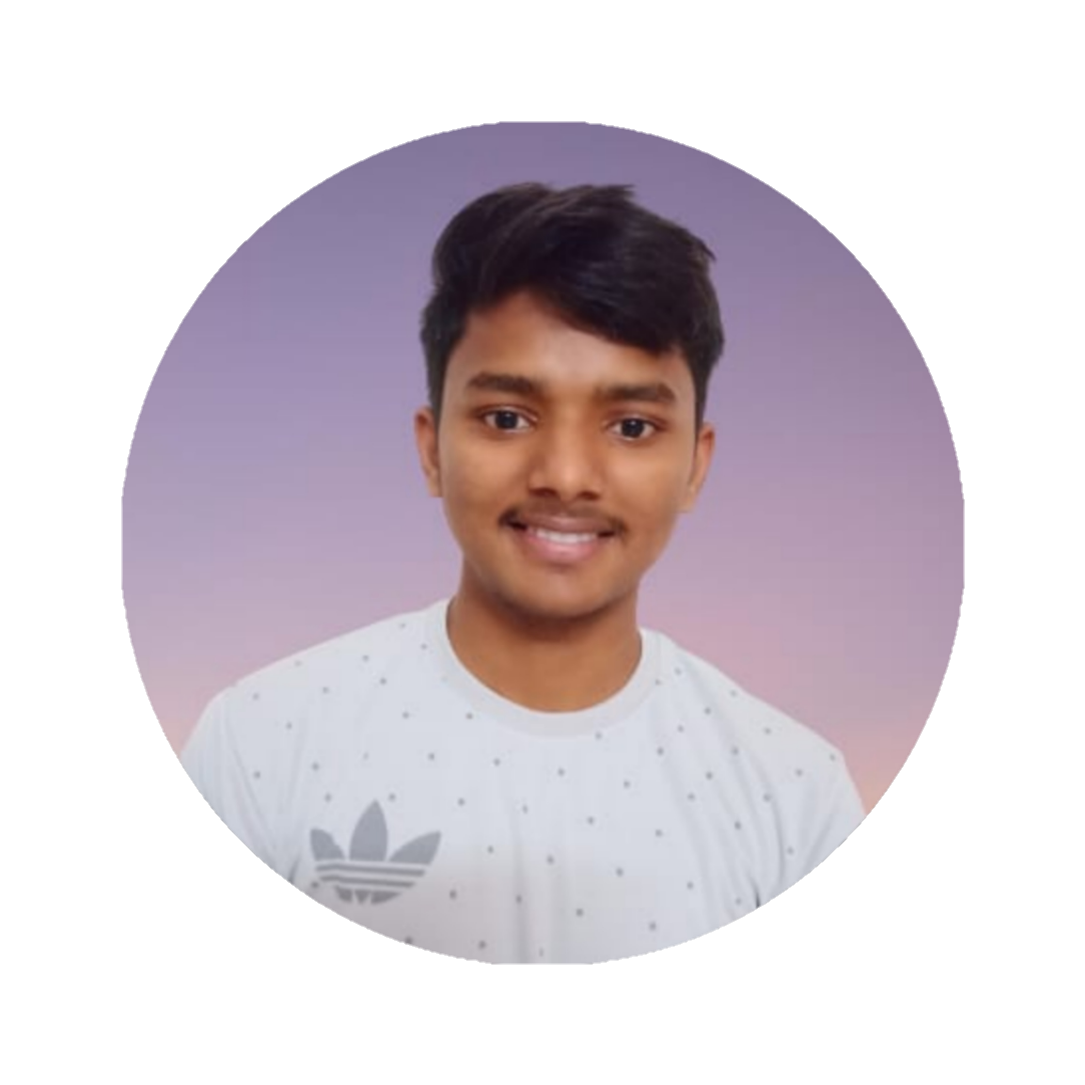
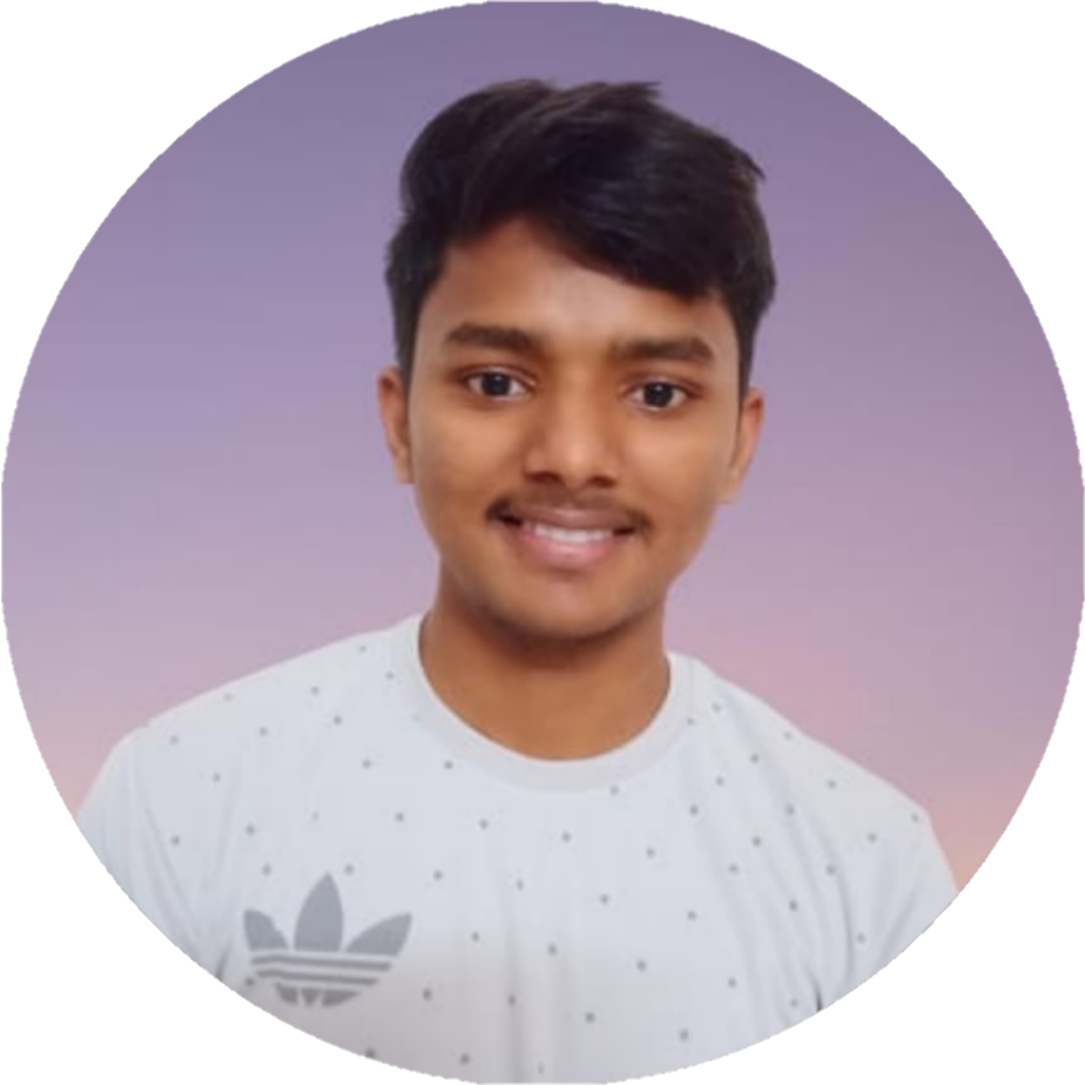
optimised images and gallery

diff --git a/index.html b/index.html
@@ -1,105 +1,109 @@
 <!DOCTYPE html>
 <html lang="en">
-  <head>
-    <meta charset="UTF-8" />
-    <meta http-equiv="X-UA-Compatible" content="IE=edge" />
-    <meta name="viewport" content="width=device-width, initial-scale=1.0" />
-    <title>GDSC GHRCEM</title>  <link rel = "icon" href = "./assets/gdsc.png" type = "image/x-icon">
-  </head>
-  <body>
-    <!DOCTYPE html>
-    <html lang="en">
-      <head>
-        <meta charset="utf-8" />
-        <title>Image Gallery</title>
-        <meta name="description" content="Responsive Image Gallery" />
-        <meta name="author" content="Tim Wells" />
-        <link rel="stylesheet" href="./src/style.css" />
-      </head>
-      <body>
-        <nav class="header">
-          <img src="./assets/logo.png" alt="" srcset="" class="logo" />
-          <p class="attend">We Attended Git + Github 1.0</p>
-        </nav>
-        <div id="gallery">
-          <img src="./assets/rza.jpg" id="img" class="item1" />
-          <img src="./assets/kirtan.jpg" id="img" class="item1" />
-          <img src="./assets/rohit_gande.jpg" id="img" class="item1" />
-          <img src="./assets/Kirti.jpg" id="img" class="item1" />
-          <img src="./assets/astha.jpg" id="img" />
-          <img src="./assets/harsh.png" id="img" />
-          <img src="./assets/sahilthete.jpg" id="img" />
-          <img src="./assets/anurag.jpg" id="img" />
-          <img src="./assets/abuzaid.jpg" id="img" />
-          <img src="./assets/dhanashree.jpg" id="img" />
-          <!-- <img src="./assets/profileE.png" id="img" /> -->
-          <img src="./assets/purvesh.jpeg" id="img" />
-          <img src="./assets/YashSinkar.jpeg" id="img" />
-          <img src="./assets/vynk.jpg" id="img" />
-          <!--<img src="./assets/profileE.png" id="img" /> -->
-          <!--<img src="./assets/profileE.png" id="img" />-->
-          <img src="./assets/Nikk.jpg" id="img" />
-          <!--<img src="./assets/profileE.png" id="img" />-->
-          <!--<img src="./assets/profileE.png" id="img" />-->
-          <!--<img src="./assets/profileE.png" id="img" />-->
-          <img src="./assets/yuvi.png" id="img" />
-          <!--<img src="./assets/profileE.png" id="img" />-->
-          <img src="./assets/Kunal1.jpg" id="img" />
-          <img src="./assets/mihir.jpeg" id="img" />
-          <!--<img src="./assets/profileE.png" id="img" />-->
-          <!--<img src="./assets/profileE.png" id="img" />-->
-          <img src="./assets/paresh.jpeg" id="img" />
-          <img src="./assets/Karan.jpeg" id="img" />
-          <!--<img src="./assets/profileE.png" id="img" />-->
-          <!--<img src="./assets/profileE.png" id="img" />-->
-          <img src="./assets/a35atharvagangras.jpg" id="img" />
-          <img src="./assets/Yuvraj.png" id="img" />
-          <img src="./assets/Nutesh.jpeg" id="img" />
-          <img src="./assets/nitesh.jpeg" id="img" />
-          <!--<img src="./assets/profileE.png" id="img" />-->
-          <!--<img src="./assets/profileE.png" id="img" />-->
-          <!--<img src="./assets/profileE.png" id="img" />-->
-          <img src="./assets/tejas.jpg" id="img" />
-          <!--<img src="./assets/profileE.png" id="img" />-->
-          <!--<img src="./assets/profileE.png" id="img" />-->
-          <img src="./assets/aakash.jpg" id="img" />
-          <img src="./assets/Abhijeet.jpg" id="img" />
-          <!--<img src="./assets/profileE.png" id="img" />-->
-          <img src="./assets/mrunal.jpg" id="img" />
-          <!--<img src="./assets/profileE.png" id="img" />-->
-          <!--<img src="./assets/profileE.png" id="img" />-->
-          <img src="./assets/Prathmesh k.jpeg" id="img" />
-          <img src="./assets/zoro.jpeg" id="img" />
-          <!--<img src="./assets/profileE.png" id="img" />-->
-          <img src="./assets/Prathamesh.jpg" id="img" />
-          <img src="./assets/prathamesh.jpg" id="img" />
-          <!--<img src="./assets/profileE.png" id="img" />-->
-          <!--<img src="./assets/profileE.png" id="img" />-->
-          <!--<img src="./assets/profileE.png" id="img"/>-->
-          <!--<img src="./assets/profileE.png" id="img" />-->
-          <img src="./assets/meet_patil.jpeg" id="img" /> 
-          <!--<img src="./assets/profileE.png" id="img" />-->
-          <!--<img src="./assets/profileE.png" id="img" />-->
-          <img src="./assets/Pooja.jpeg" id="img" />
-          <!--<img src="./assets/profileE.png" id="img" />-->
-          <!--<img src="./assets/profileE.png" id="img" />-->
-          <img src="./assets/priyak.jpeg" id="img" />
-          <!--<img src="./assets/profileE.png" id="img" />-->
-          <img src="./assets/atif.jpg" id="img" />
-          <!--<img src="./assets/profileE.png" id="img" />-->
-          <img src="./assets/piyush.jpg" id="img" />
-          <!--<img src="./assets/profileE.png" id="img" />-->
-          <!--<img src="./assets/profileE.png" id="img" />-->
-          <!--<img src="./assets/profileE.png" id="img" />-->
-          <img src="./assets/akanksha_varkad.jpeg" id="img" />
-          <!--<img src="./assets/profileE.png" id="img" />-->
-          <!--<img src="./assets/profileE.png" id="img" />-->
-          <!--<img src="./assets/profileE.png" id="img" />-->
-          <img src="./assets/Prashansa.jpg" id="img" />
-          <img src="./assets/profileE.png" id="img" />
-          <img src="./assets/profileE.png" id="img" />
-          <!--<img src="./assets/profileE.png" id="img" />-->
-          <!--<img src="./assets/profileE.png" id="img" />
+
+<head>
+  <meta charset="UTF-8" />
+  <meta http-equiv="X-UA-Compatible" content="IE=edge" />
+  <meta name="viewport" content="width=device-width, initial-scale=1.0" />
+  <link rel="stylesheet" href="./src/style.css" />
+  <link href="https://cdn.jsdelivr.net/npm/bootstrap@5.2.2/dist/css/bootstrap.min.css" rel="stylesheet"
+    integrity="sha384-Zenh87qX5JnK2Jl0vWa8Ck2rdkQ2Bzep5IDxbcnCeuOxjzrPF/et3URy9Bv1WTRi" crossorigin="anonymous">
+  <script src="https://cdn.jsdelivr.net/npm/bootstrap@5.2.2/dist/js/bootstrap.bundle.min.js"
+    integrity="sha384-OERcA2EqjJCMA+/3y+gxIOqMEjwtxJY7qPCqsdltbNJuaOe923+mo//f6V8Qbsw3"
+    crossorigin="anonymous"></script>
+  <title>GDSC GHRCEM</title>
+  <link rel="icon" href="./assets/gdsc.png" type="image/x-icon">
+</head>
+
+<body>
+  <nav class="header">
+    <img src="./assets/logo.png" alt="" srcset="" class="logo" />
+    <p class="attend">We Attended Git + Github 1.0</p>
+  </nav>
+  <div class="container flex-column">
+    <div id="gallery" class="d-flex flex-wrap row">
+      <img src="./assets/rza.jpg" class=" col img" />
+      <img src="./assets/kirtan.jpg" class=" col img" />
+      <img src="./assets/rohit_gande.jpg" class=" col img" />
+      <img src="./assets/Kirti.jpg" class=" col img" />
+      <img src="./assets/astha.jpg" class="col img" />
+      <img src="./assets/harsh.png" class="col img" />
+      <img src="./assets/sahilthete.jpg" class="col img" />
+      <img src="./assets/anurag.jpg" class="col img" />
+      <img src="./assets/abuzaid.jpg" class="col img" />
+      <img src="./assets/dhanashree.jpg" class="col img" />
+      <!-- <img src="./assets/profileE.png" id="img" /> -->
+      <img src="./assets/purvesh.jpeg" class="col img" />
+      <img src="./assets/YashSinkar.jpeg" class="col img" />
+      <img src="./assets/vynk.jpg" class="col img" />
+      <!--<img src="./assets/profileE.png" id="img" /> -->
+      <!--<img src="./assets/profileE.png" id="img" />-->
+      <img src="./assets/Nikk.jpg" class="col img" />
+      <!--<img src="./assets/profileE.png" id="img" />-->
+      <!--<img src="./assets/profileE.png" id="img" />-->
+      <!--<img src="./assets/profileE.png" id="img" />-->
+      <img src="./assets/yuvi.png" class=" col img" />
+      <!--<img src="./assets/profileE.png" id="img" />-->
+      <img src="./assets/Kunal1.jpg" class=" col img" />
+      <img src="./assets/mihir.jpeg" class=" col img" />
+      <!--<img src="./assets/profileE.png" id="img" />-->
+      <!--<img src="./assets/profileE.png" id="img" />-->
+      <img src="./assets/paresh.jpeg" class=" col img" />
+      <img src="./assets/Karan.jpeg" class=" col img" />
+      <!--<img src="./assets/profileE.png" id="img" />-->
+      <!--<img src="./assets/profileE.png" id="img" />-->
+      <img src="./assets/a35atharvagangras.jpg" class=" col img" />
+      <img src="./assets/Yuvraj.png" class=" col img" />
+      <img src="./assets/Nutesh.jpeg" class=" col img" />
+      <img src="./assets/nitesh.jpeg" class=" col img" />
+      <!--<img src="./assets/profileE.png" id="img" />-->
+      <!--<img src="./assets/profileE.png" id="img" />-->
+      <!--<img src="./assets/profileE.png" id="img" />-->
+      <img src="./assets/tejas.jpg" class=" col img" />
+      <!--<img src="./assets/profileE.png" id="img" />-->
+      <!--<img src="./assets/profileE.png" id="img" />-->
+      <img src="./assets/aakash.jpg" class=" col img" />
+      <img src="./assets/Abhijeet.jpg" class=" col img" />
+      <!--<img src="./assets/profileE.png" id="img" />-->
+      <img src="./assets/mrunal.jpg" class=" col img" />
+      <!--<img src="./assets/profileE.png" id="img" />-->
+      <!--<img src="./assets/profileE.png" id="img" />-->
+      <img src="./assets/prathamesh k.jpeg" class=" col img" />
+      <img src="./assets/zoro.jpeg" class=" col img" />
+      <!--<img src="./assets/profileE.png" id="img" />-->
+      <!-- <img src="./assets/Prathamesh.jpg" id="img" /> -->
+      <img src="./assets/prathamesh.jpg" class=" col img" />
+      <!--<img src="./assets/profileE.png" id="img" />-->
+      <!--<img src="./assets/profileE.png" id="img" />-->
+      <!--<img src="./assets/profileE.png" id="img"/>-->
+      <!--<img src="./assets/profileE.png" id="img" />-->
+      <img src="./assets/meet_patil.jpeg" class=" col img" />
+      <!--<img src="./assets/profileE.png" id="img" />-->
+      <!--<img src="./assets/profileE.png" id="img" />-->
+      <img src="./assets/Pooja.jpeg" class=" col img" />
+      <!--<img src="./assets/profileE.png" id="img" />-->
+      <!--<img src="./assets/profileE.png" id="img" />-->
+      <img src="./assets/priyak.jpeg" class=" col img" />
+      <!--<img src="./assets/profileE.png" id="img" />-->
+      <img src="./assets/atif.jpg" class=" col img" />
+      <!--<img src="./assets/profileE.png" id="img" />-->
+      <img src="./assets/piyush.jpg" class=" col img" />
+      <!--<img src="./assets/profileE.png" id="img" />-->
+      <!--<img src="./assets/profileE.png" id="img" />-->
+      <!--<img src="./assets/profileE.png" id="img" />-->
+      <img src="./assets/akanksha_varkad.jpeg" class=" col img" />
+      <!--<img src="./assets/profileE.png" id="img" />-->
+      <!--<img src="./assets/profileE.png" id="img" />-->
+      <!--<img src="./assets/profileE.png" id="img" />-->
+      <img src="./assets/Prashansa.jpg" class=" col img" />
+      <img src="./assets/profileE.png" class=" col img" />
+      <!-- <img src="./assets/profileE.png" class=" col img" /> -->
+      <!-- <img src="./assets/profileE.png" class=" col img" />
+            <img src="./assets/profileE.png" class=" col img" /> -->
+    </div>
+
+
+    <!--<img src="./assets/profileE.png" id="img" />
           <img src="./assets/profileE.png" id="img" />
           <img src="./assets/profileE.png" id="img" />
           <img src="./assets/profileE.png" id="img" />
@@ -170,8 +174,8 @@
           <img src="./assets/profileE.png" id="img" />
           <img src="./assets/profileE.png" id="img" />
           <img src="./assets/profileE.png" id="img" />-->
-        </div>
-      </body>
-    </html>
-  </body>
+  </div>
+
+</body>
+
 </html>

diff --git a/src/style.css b/src/style.css
@@ -8,6 +8,7 @@ body {
   font-size: 40px;
   font-family: monospace;
   color: aqua;
+  margin:0 auto;
 }
 .logo {
   display: block;
@@ -16,51 +17,61 @@ body {
   width: 50%;
 }
 
-#gallery {
-  /* line-height:0;
-  -webkit-column-count:4; 
-  -webkit-column-gap:5px; 
-  -moz-column-count:4;
-  -moz-column-gap:10px;
-  column-count:4;
-  column-gap: 10px; */
-  margin-left: 100px;
-  padding-left: 95px;
-  padding-right: 95px;
-  display: grid;
+
+#gallery{
+  margin:0 auto;
+  padding-left: 4.8%;
 }
 
-#gallery img {
-  width: 70% !important;
-  margin-bottom: 17px; /* to match column gap */
-}
-
-#img {
+.img {
+  width: 20.2% !important;
+  max-width: 20.2% !important;
   border-radius: 50%;
+  min-height: 40%;
+  max-height: 40%;
+  margin:20px;
   display: inline-grid;
+  margin-top:20px !important;
 }
 
-.item1 {
+/* .item1 {
   grid-row-start: 1;
   grid-row-end: 3;
-}
+} */
 
 
 /* for mobile screen optimization */
 
 @media (max-width: 800px) {
-  #gallery {
-   -moz-column-count:    2;
-   -webkit-column-count: 2;
-   column-count:         2;
+  .img{
+    width:40% !important;
+    max-width: 40% !important;
+  }
+  #gallery{
+    margin:0 auto;
+    padding-left: 0;
   }
 }
 
-@media (max-width: 400px) {
-  #gallery {
-   -moz-column-count:    1;
-   -webkit-column-count: 1;
-   column-count:         1;
+@media (max-width: 900px) {
+  .img{
+    width:40% !important;
+    max-width: 40% !important;
+  }
+  #gallery{
+    margin:0 auto;
+    padding-left: 0;
+  }
+}
+
+@media (max-width: 500px) {
+  .img{
+    max-width: 40% !important;
+    margin: 0 auto;
+  }
+  #gallery{
+    margin:0 auto;
+    padding-left: 0;
   }
 }
 
